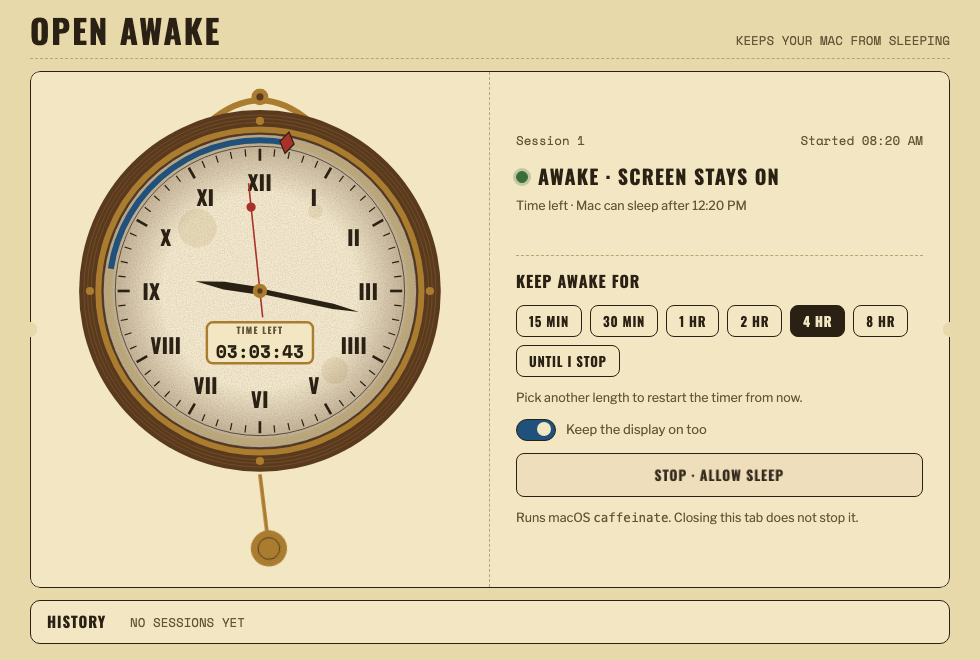
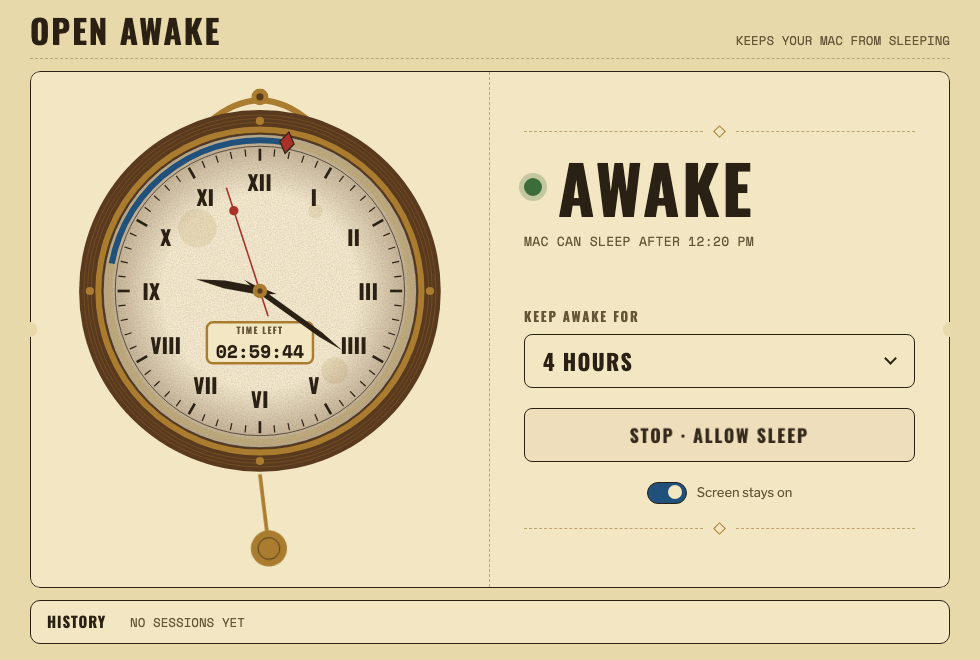
open-awake: simplify the right side to a status word, one dropdown and one button
The duration chips become a single styled dropdown. Status, session counter,
start time and helper notes are cut down to a large status word with one line
of context; the screen-on switch stays as a small row. Ornament rules frame it.

diff --git a/open-awake/index.html b/open-awake/index.html
@@ -54,14 +54,8 @@ h1, h2, .caps { font-family: var(--font-display); text-transform: uppercase; let
 .ticket > * { padding: 14px 26px; min-width: 0; min-height: 0; }
 .clockside { border-right: var(--k-rule); display: flex; align-items: center; justify-content: center; }
 .wallclock { height: 100%; width: auto; max-width: 100%; overflow: visible; }
-.stub { display: grid; gap: 12px; align-content: center; }
-.serial { font-family: var(--font-mono); font-size: 12.5px; color: var(--muted); display: flex; justify-content: space-between; gap: 8px; }
-.status { font-family: var(--font-display); text-transform: uppercase; letter-spacing: .06em; font-weight: 700; font-size: 20px; display: flex; align-items: center; gap: 10px; }
 .lamp { flex: none; width: 12px; height: 12px; border-radius: 50%; border: 1.5px solid var(--ink); background: transparent; }
 .on .lamp { background: var(--positive); border-color: var(--positive); box-shadow: 0 0 0 3px color-mix(in srgb, var(--positive) 25%, transparent); }
-.clocklabel { margin: -6px 0 0; font-size: 12.5px; color: var(--muted); }
-.controls { display: grid; gap: 12px; border-top: var(--k-rule); padding-top: 14px; }
-.controls h2 { font-size: 16px; }
 
 /* Wall clock (SVG). Every colour is a token, so it follows light/dark. */
 .wallclock .wood { fill: var(--wood); }
@@ -98,25 +92,40 @@ h1, h2, .caps { font-family: var(--font-display); text-transform: uppercase; let
 .btn:active { transform: scale(var(--k-press)); }
 .btn.primary { background: var(--accent); border-color: var(--accent); color: var(--on-accent); }
 .btn.secondary { background: transparent; }
-.btn:focus-visible, .chip:focus-visible, .sw:focus-visible { outline: 2px solid var(--accent2); outline-offset: 2px; }
+.btn:focus-visible, select:focus-visible, .sw:focus-visible { outline: 2px solid var(--accent2); outline-offset: 2px; }
 .btn[aria-busy="true"] { opacity: .7; pointer-events: none; }
 .label-in { animation: punch var(--k-dur) var(--k-ease); }
 @keyframes punch { from { transform: scale(1.1); opacity: .4; } to { transform: none; opacity: 1; } }
 
-.chips { display: flex; flex-wrap: wrap; gap: 8px; }
-.chip {
-  height: 32px; padding: 0 12px; border: var(--k-border); border-radius: 8px;
-  font: 700 13px var(--font-display); text-transform: uppercase; letter-spacing: .06em;
-  transition: transform var(--k-dur) var(--k-ease), background var(--k-dur);
+.stub { display: grid; gap: 20px; align-content: center; justify-items: stretch; padding-left: 34px; padding-right: 34px; }
+/* ornament divider: hairline, diamond, hairline */
+.orn { display: flex; align-items: center; gap: 12px; color: var(--rule); }
+.orn i { flex: 1; border-top: var(--k-rule); }
+.orn b { width: 9px; height: 9px; border: 1.5px solid var(--brass); transform: rotate(45deg); }
+.state { display: flex; align-items: center; gap: 16px; }
+.state h2 { font-size: clamp(44px, 10vh, 78px); line-height: .95; letter-spacing: .04em; }
+.state .lamp { width: 18px; height: 18px; border-width: 2px; }
+.on .state .lamp { box-shadow: 0 0 0 5px color-mix(in srgb, var(--positive) 25%, transparent); }
+.clocklabel { margin: -8px 0 0; font: 13px var(--font-mono); color: var(--muted); text-transform: uppercase; letter-spacing: .02em; }
+.field { display: grid; gap: 8px; }
+.field > span { font: 700 13px var(--font-display); letter-spacing: .14em; text-transform: uppercase; color: var(--muted); }
+.sel { position: relative; }
+.sel select {
+  width: 100%; height: 54px; padding: 0 48px 0 18px; border: var(--k-border); border-radius: 8px;
+  background: var(--surface); color: var(--ink); cursor: pointer;
+  -webkit-appearance: none; appearance: none;
+  font: 700 22px var(--font-display); letter-spacing: .06em; text-transform: uppercase;
+  transition: transform var(--k-dur) var(--k-ease);
 }
-.chip:active { transform: scale(var(--k-press)); }
-.chip[aria-pressed="true"] { background: var(--ink); color: var(--surface); }
+.sel select:active { transform: scale(var(--k-press)); }
+.sel::after { content: ""; position: absolute; right: 20px; top: 50%; width: 9px; height: 9px; margin-top: -7px; border: solid var(--ink); border-width: 0 2.5px 2.5px 0; transform: rotate(45deg); pointer-events: none; }
+.btn.big { height: 54px; font-size: 18px; letter-spacing: .1em; }
+.opt { justify-content: center; }
 .opt { display: flex; align-items: center; gap: 10px; font-size: 13px; color: var(--muted); }
 .sw { width: 40px; height: 22px; border: var(--k-border); border-radius: 11px; position: relative; flex: none; transition: background var(--k-dur); }
 .sw::after { content: ""; position: absolute; top: 2px; left: 2px; width: 14px; height: 14px; border-radius: 50%; background: var(--ink); transition: transform var(--k-dur) var(--k-ease); }
 .sw[aria-checked="true"] { background: var(--accent2); }
 .sw[aria-checked="true"]::after { transform: translateX(18px); background: var(--surface); }
-.note { font-size: 12.5px; color: var(--muted); margin: 0; }
 .err { color: var(--negative); font-family: var(--font-mono); font-size: 12.5px; min-height: 1.2em; }
 
 /* Recent sessions: one slim strip */
@@ -128,7 +137,7 @@ h1, h2, .caps { font-family: var(--font-display); text-transform: uppercase; let
 .recent li b { font-family: var(--font-display); letter-spacing: .06em; text-transform: uppercase; }
 .recent li b.expired { color: var(--positive); } .recent li b.stopped { color: var(--muted); }
 .recent .empty { font: 12.5px var(--font-mono); color: var(--muted); text-transform: uppercase; }
-.preview .btn, .preview .chip, .preview .sw { pointer-events: none; }
+.preview .btn, .preview select, .preview .sw { pointer-events: none; }
 @media (max-width: 700px) {
   .wrap { height: auto; min-height: 100vh; overflow: visible; }
   .ticket { grid-template-columns: 1fr; }
@@ -136,8 +145,8 @@ h1, h2, .caps { font-family: var(--font-display); text-transform: uppercase; let
   .wallclock { height: 300px; }
 }
 @media (prefers-reduced-motion: reduce) {
-  .btn, .chip, .sw, .sw::after { transition: none; }
-  .btn:active, .chip:active { transform: none; opacity: .8; }
+  .btn, .sel select, .sw, .sw::after { transition: none; }
+  .btn:active, .sel select:active { transform: none; opacity: .8; }
   .label-in, .on .pend { animation: none; }
 }
 </style>
@@ -216,21 +225,17 @@ h1, h2, .caps { font-family: var(--font-display); text-transform: uppercase; let
       </svg>
     </div>
     <div class="stub">
-      <div class="serial"><span id="serial">Session —</span><span id="since">—</span></div>
-      <div class="status"><span class="lamp"></span><span id="status">Mac can sleep normally</span></div>
-      <p class="clocklabel" id="clockLabel">Not running</p>
+      <div class="orn" aria-hidden="true"><i></i><b></b><i></i></div>
+      <div class="state"><span class="lamp"></span><h2 id="status">Resting</h2></div>
+      <p class="clocklabel" id="clockLabel">Mac can sleep normally</p>
       <div class="err" id="err" role="status"></div>
-      <div class="controls">
-        <h2>Keep awake for</h2>
-        <div class="chips" id="chips" role="group" aria-label="Duration"></div>
-        <p class="note" id="chipHint" hidden>Pick another length to restart the timer from now.</p>
-        <div class="opt">
-          <button class="sw" id="display" role="switch" aria-checked="true" aria-label="Keep display on"></button>
-          <span>Keep the display on too</span>
-        </div>
-        <button class="btn primary" id="go" type="button"><span id="goLabel">Stay awake</span></button>
-        <p class="note">Runs macOS <code>caffeinate</code>. Closing this tab does not stop it.</p>
+      <label class="field" for="dur"><span>Keep awake for</span><div class="sel"><select id="dur"></select></div></label>
+      <button class="btn primary big" id="go" type="button"><span id="goLabel">Stay awake</span></button>
+      <div class="opt">
+        <button class="sw" id="display" role="switch" aria-checked="true" aria-label="Keep display on"></button>
+        <span>Screen stays on</span>
       </div>
+      <div class="orn" aria-hidden="true"><i></i><b></b><i></i></div>
     </div>
   </section>
 
@@ -243,7 +248,7 @@ h1, h2, .caps { font-family: var(--font-display); text-transform: uppercase; let
 
 <script>
 const $ = (id) => document.getElementById(id);
-const DURATIONS = [["15 min", 15], ["30 min", 30], ["1 hr", 60], ["2 hr", 120], ["4 hr", 240], ["8 hr", 480], ["Until I stop", 0]];
+const DURATIONS = [["15 minutes", 15], ["30 minutes", 30], ["1 hour", 60], ["2 hours", 120], ["4 hours", 240], ["8 hours", 480], ["Until I stop", 0]];
 
 function isPreview() {
   if (new URLSearchParams(location.search).get("_preview") === "1") return true;
@@ -278,20 +283,12 @@ function dur(s) {
 const running = () => state.active && !PREVIEW;
 const activeMinutes = () => state.ends ? Math.round((state.ends - state.start) / 60) : 0;
 
-function renderChips() {
+function renderDuration() {
   const sel = running() ? activeMinutes() : minutes();
-  $("chips").innerHTML = "";
-  for (const [label, m] of DURATIONS) {
-    const b = document.createElement("button");
-    b.className = "chip"; b.type = "button"; b.textContent = label;
-    b.setAttribute("aria-pressed", String(m === sel));
-    b.onclick = () => {
-      fused.params.set("d", String(m));
-      if (running() && !busy) restart(m, state.display);
-    };
-    $("chips").appendChild(b);
-  }
-  $("chipHint").hidden = !running();
+  const opts = DURATIONS.map(([label, m]) => [label, m]);
+  // e.g. after the display switch restarts a session with the time that was left
+  if (!opts.some(([, m]) => m === sel)) opts.push([dur(sel * 60) + " left", sel]);
+  $("dur").innerHTML = opts.map(([label, m]) => `<option value="${m}"${m === sel ? " selected" : ""}>${label}</option>`).join("");
   $("display").setAttribute("aria-checked", String(running() ? !!state.display : keepDisplay()));
 }
 
@@ -367,37 +364,34 @@ function tick() {
   $("go").classList.toggle("secondary", !!state.active);
   $("go").classList.toggle("primary", !state.active);
   setLabel(state.active ? "Stop · allow sleep" : "Stay awake");
-  $("serial").textContent = "Session " + ((state.log || []).length + (state.active ? 1 : 0) || "—");
   if (!state.active) {
-    $("status").textContent = "Mac can sleep normally";
+    $("status").textContent = "Resting";
     $("faceTime").textContent = "--:--:--";
     $("faceCap").textContent = "Not running";
     drawSpan(0, null);
-    $("clockLabel").textContent = "Not running";
-    $("since").textContent = "—";
+    $("clockLabel").textContent = "Mac can sleep normally";
     return;
   }
   const n = nowSrv();
-  $("since").textContent = "Started " + clock(state.start);
-  $("status").textContent = "Awake · " + (state.display ? "screen stays on" : "screen can dim");
+  $("status").textContent = "Awake";
   if (state.ends) {
     const left = Math.max(0, state.ends - n);
     $("faceTime").textContent = hms(left);
     $("faceCap").textContent = "Time left";
     drawSpan(n, state.ends);
-    $("clockLabel").textContent = "Time left · Mac can sleep after " + clock(state.ends);
+    $("clockLabel").textContent = "Mac can sleep after " + clock(state.ends);
   } else {
     $("faceTime").textContent = hms(Math.max(0, n - state.start));
     $("faceCap").textContent = "Awake for";
     drawSpan(n, null);
-    $("clockLabel").textContent = "Awake for · no end time, runs until you stop it";
+    $("clockLabel").textContent = "Until you stop it";
   }
 }
 
 function apply(s) {
   state = s;
   if (s.now) skew = s.now - Date.now() / 1000;
-  tick(); renderLog(); renderChips();
+  tick(); renderLog(); renderDuration();
 }
 
 async function api(path, body) {
@@ -426,9 +420,14 @@ async function restart(mins, display) {
 
 async function boot() {
   buildDial(); drawHands();
-  renderChips();
-  fused.params.onChange(renderChips);
+  renderDuration();
+  fused.params.onChange(renderDuration);
   $("go").onclick = toggle;
+  $("dur").onchange = () => {
+    const m = Number($("dur").value);
+    fused.params.set("d", String(m));
+    if (running() && !busy) restart(m, state.display);
+  };
   $("display").onclick = () => {
     if (running()) {
       if (busy) return;
@@ -456,7 +455,7 @@ async function boot() {
 
 if (PREVIEW) {
   document.body.classList.add("preview");
-  buildDial(); drawHands(); renderChips(); tick(); renderLog();
+  buildDial(); drawHands(); renderDuration(); tick(); renderLog();
 } else {
   boot();
 }

diff --git a/open-awake/readme.md b/open-awake/readme.md
@@ -1,6 +1,6 @@
 # Open Awake
 
-Keep your Mac awake. Pick a duration (15 min to 8 h, or no end time), press **Stay awake**, and the Mac won't idle-sleep until the time is up or you press **Stop · allow sleep**. An [Amphetamine](https://apps.apple.com/app/amphetamine/id937984704)-style tool built on macOS's own `caffeinate`.
+Keep your Mac awake. Pick a duration from the dropdown (15 minutes to 8 hours, or until you stop it), press **Stay awake**, and the Mac won't idle-sleep until the time is up or you press **Stop · allow sleep**. An [Amphetamine](https://apps.apple.com/app/amphetamine/id937984704)-style tool built on macOS's own `caffeinate`.
 
 - **A vintage wall clock** shows the time of day; a blue band on its bezel runs from now to when the Mac may sleep again, and a brass plate counts down (or up, for open-ended sessions). The pendulum swings while the Mac is held awake.
 - **Timed or open-ended** sessions.
